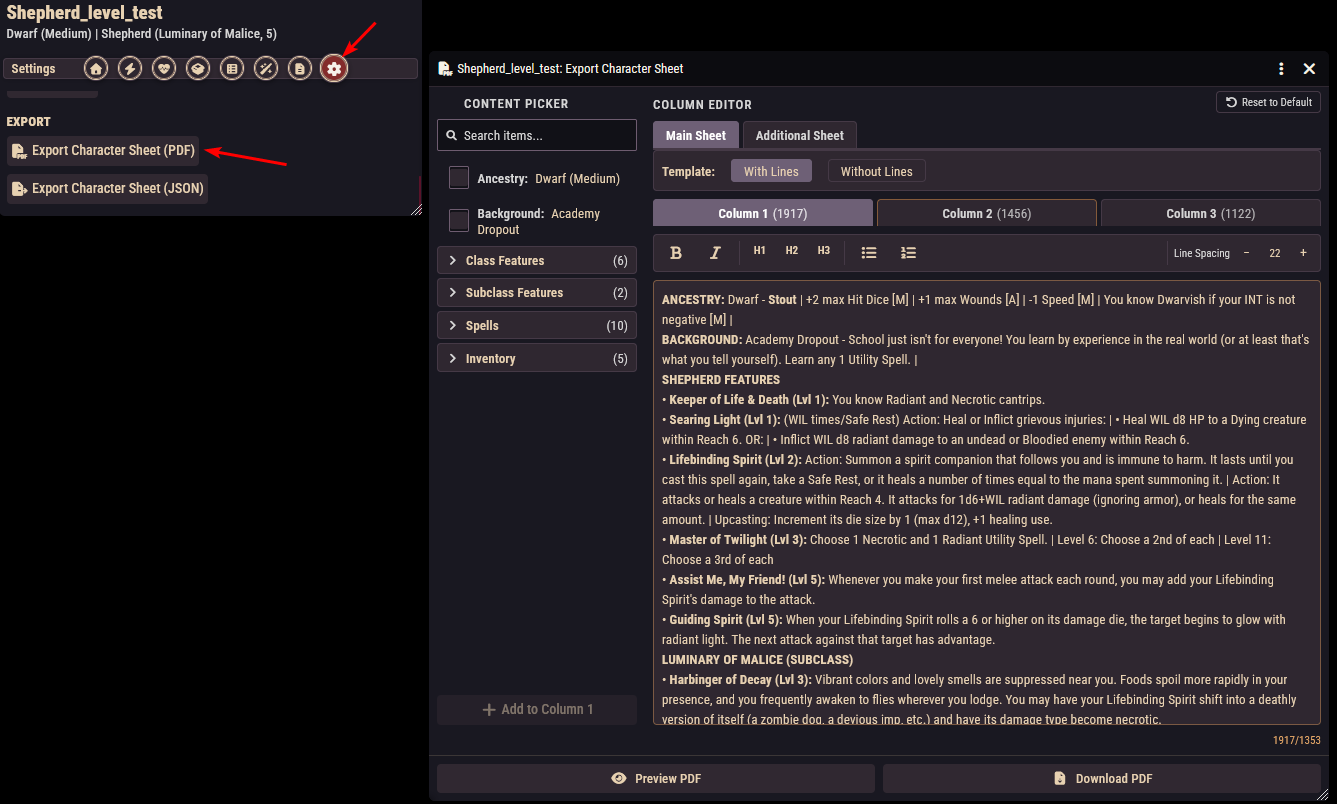
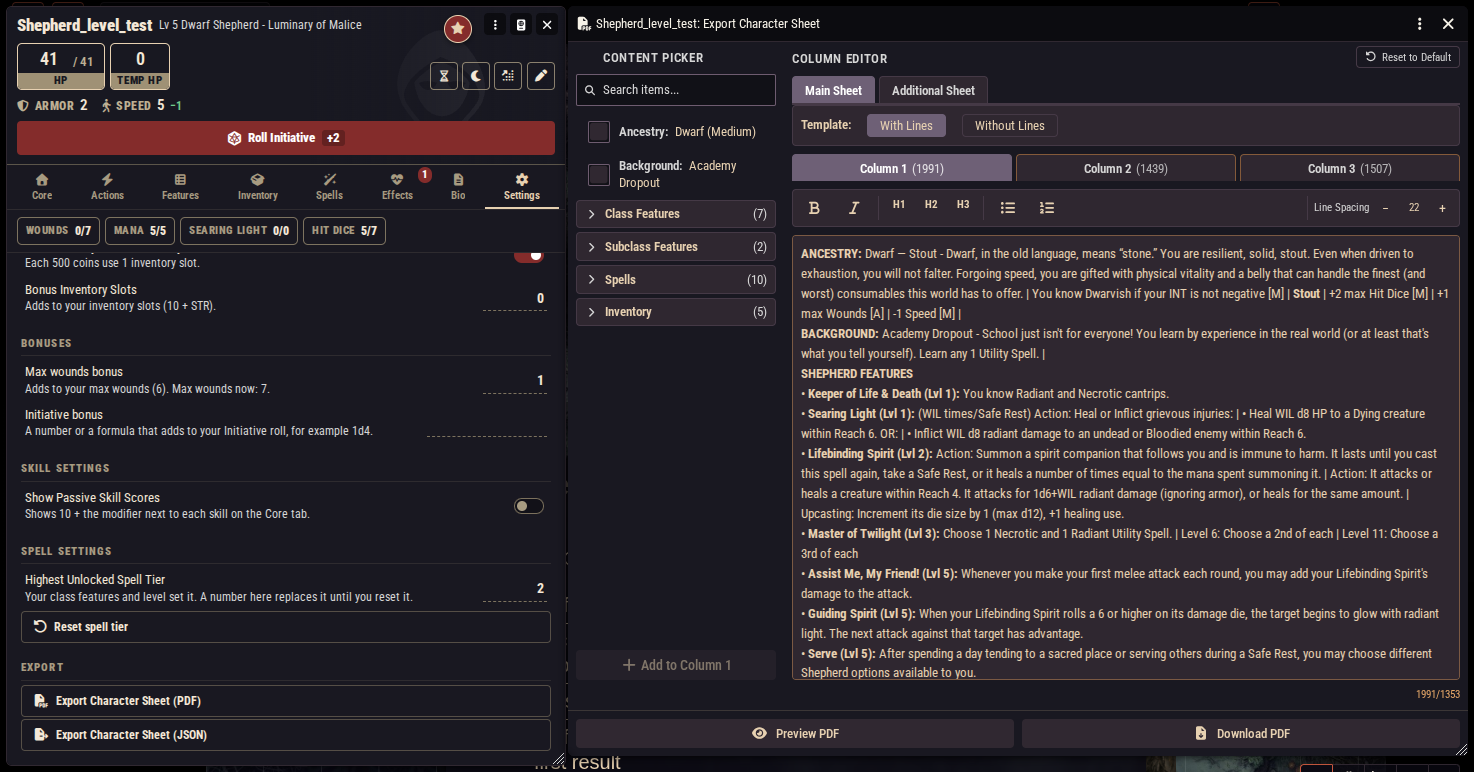
docs(images): the PDF export shot shows the new Settings tab

diff --git a/docs/documentation/gm/import-export.md b/docs/documentation/gm/import-export.md
@@ -41,7 +41,7 @@ The dialog gives you control over the free-text area of the sheet:
 - An **additional page** with three more columns is added automatically when you put content on it.
 - Choose between the **lined** and **no-lines** versions of the sheet, and use the preview to check the layout before you press **Download PDF**.
 
-![The PDF export dialog with the content picker on the left and the column editor on the right](/images/documentation/export-character-pdf.png)
+![The Export buttons on the Settings tab of the character sheet, and the PDF export window with the content picker and the column editor](/images/documentation/export-character-pdf.png)
 
 ::: tip
 The picker and editor start pre-filled with a sensible selection of the character's content, so for most characters "open, glance, download" is the whole workflow.
